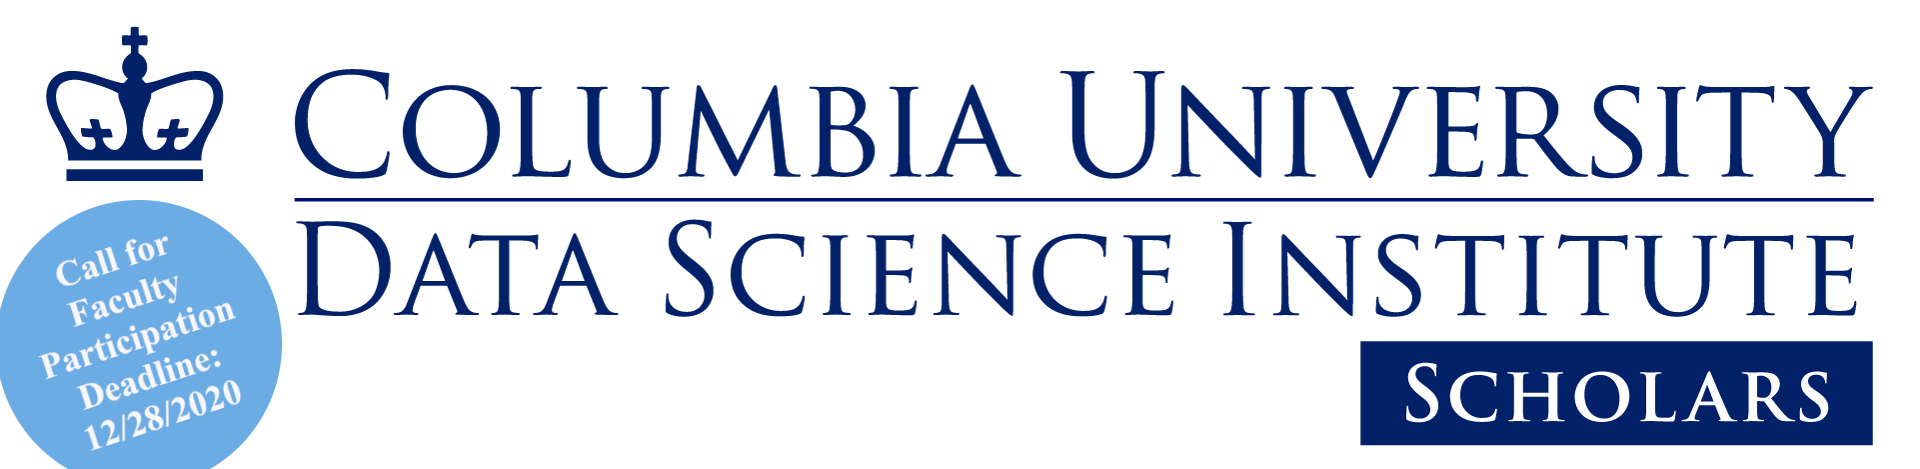
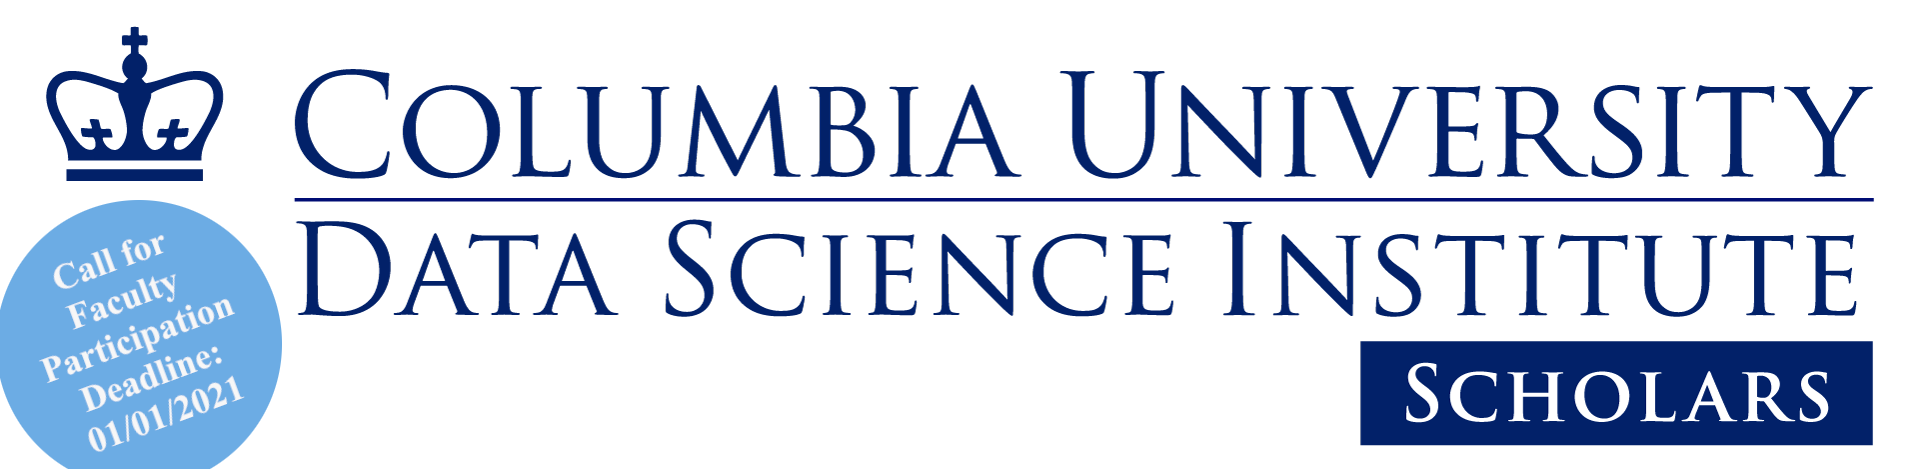
Update with new deadlines

Changed region(s): [[0.0, 0.5075, 0.125, 0.9552]]

diff --git a/content/post/2020-12-09-call-for-faculty-participation-dsi-scholars-spring-summer-2021.md b/content/post/2020-12-09-call-for-faculty-participation-dsi-scholars-spring-summer-2021.md
@@ -1,7 +1,7 @@
 ---
 title: Call for Faculty Participation --- DSI Scholars Spring-Summer 2021
 author: Tian Zheng, Vincent Dorie
-date: '2020-12-04'
+date: '2020-12-09'
 slug: call-for-faculty-participation-dsi-scholars-spring-summer-2021
 aliases:
   - /static/pi_call
@@ -13,12 +13,12 @@ tags:
   - Summer 2021
 autoThumbnailImage: no
 thumbnailImagePosition: top
-thumbnailImage: https://res.cloudinary.com/vdoriecu/image/upload/c_scale,w_758/v1607098652/opencall_faculty_springsummer_2021_fvqlzn.png
+thumbnailImage: https://res.cloudinary.com/vdoriecu/image/upload/c_scale,w_758/v1607545909/opencall_faculty_springsummer_2021_nlfo9j.png
 coverImage: https://res.cloudinary.com/tz33cu/image/upload/v1516637953/DSI-scholars/wordcloud2_ezxayp.png
 metaAlignment: center
 ---
 
-### Call for Faculty Participation. December 2021.
+### Call for Faculty Participation. December 2020.
 
 The Data Science Institute is calling for faculty submissions of research projects for the pring and/or summer 2021 sessions of the Data Science Institute (DSI) Scholars Program. The goal of the DSI Scholars Program is to engage undergraduate and master students to work with Columbia faculty, through the creation of data science research internships. Last year, we worked with 42 projects and received more than 730 unique applications from Columbia Students. The program's unique enrichment activities foster a learning and collaborative community in data science at Columbia. Apply [here](https://docs.google.com/forms/d/e/1FAIpQLScXsKgdf08Mv-8Q1mX23TUW-btopOZwq1Sj5YvpH2tVEEXmoA/viewform?usp=sf_link).
 
@@ -38,23 +38,23 @@ Questions? See our PI [FAQ](/page/pi_faq/)! A video recording from a fall online
 
 The Data Science Institute encourages women and underrepresented minorities to apply to this program.
 
-Application to participate: Faculty/Research Centers/Research Labs who are interested in participating in this program as internship hosts should complete [this application form](https://docs.google.com/forms/d/e/1FAIpQLScXsKgdf08Mv-8Q1mX23TUW-btopOZwq1Sj5YvpH2tVEEXmoA/viewform?usp=sf_link). The application deadline is December 28th, 2020. Decisions on the allocation of funds will be made by January 1st, 2021.
+Application to participate: Faculty/Research Centers/Research Labs who are interested in participating in this program as internship hosts should complete [this application form](https://docs.google.com/forms/d/e/1FAIpQLScXsKgdf08Mv-8Q1mX23TUW-btopOZwq1Sj5YvpH2tVEEXmoA/viewform?usp=sf_link). The application deadline is January 1st, 2021. Decisions on the allocation of funds will be made by January 5th, 2021.
 
 Key dates:
 
-+ December 28th, 2020
++ January 1st, 2021
     + [Faculty -> DSI] Faculty/Center/Lab scholars internship host application due.
-+ January 4th, 2021
++ January 5th, 2021
     + [DSI -> Faculty] DSI Scholars funding decisions will be sent to faculty.
     + [DSI -> Students] Program announcement will be sent to students and the application website goes live.
-+ January 25th, 2021
++ January 22nd, 2021
     + [Students -> DSI] Student applications due.
     + [DSI -> Faculty] Applications shared with faculty/center/lab.
-+ January 25th-February 22nd, 2021
++ January 22th-February 19th, 2021
     + [Faculty -> Students] Student interviews and selection.
-+ March 1st, 2021
     + [Faculty -> Student] Faculty sends an email offer of the internship to the selected student(s).
-    + [Faculty -> DSI] Information on selected Scholars due to DSI for inclusion in fall stipend.
++ February 26th, 2021
+    + [Faculty -> DSI] Information on selected Scholars due to DSI for inclusion in spring stipend.
 
 Please email questions to [dsi-scholars@columbia.edu](mailto:dsi-scholars@columbia.edu), see our PI [FAQ](/page/pi_faq/), or review the info session material ([video](https://columbia.hosted.panopto.com/Panopto/Pages/Viewer.aspx?id=f0b73385-07e1-4c23-8f7b-ac2200f91b94); [slides](https://docs.google.com/presentation/d/1aE19WTanf2I37brBsvsYpVG353Or7kRzP2ZoofAfrRU/edit?usp=sharing)).
 

diff --git a/readme.md b/readme.md
@@ -1,0 +1,21 @@
+DSI & DFG Scholars Program, Implementation Details
+==================================================
+
+## General Outline
+
+1. Issue faculty call (first week of August or December)
+    1.1 Optional: hold information session
+2. Faculty call ends; decide which projects to fund (+4 weeks)
+    2.1 Create project pages on site
+    2.2 Contact faculty about decision
+    2.3 Create student application form
+3. Circulate student application form (+1 week)
+    3.1 Optional: hold information session
+4. Student applications due (+2-3 weeks)
+    4.1 Circulate applications to faculty
+5. Faculty/student interviews and selection (+4 weeks)
+6. Stipend information day (+1 week)
+
+## Faculty Call
+
+
